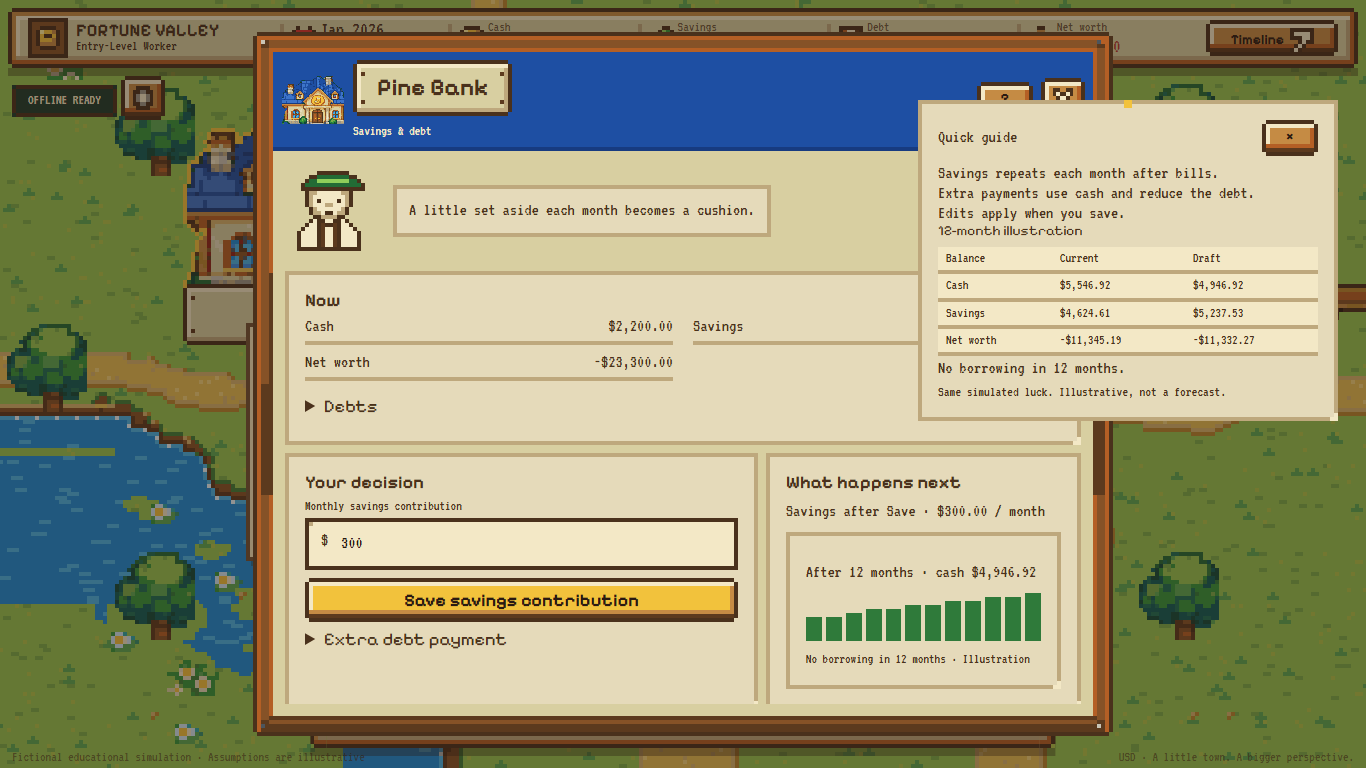
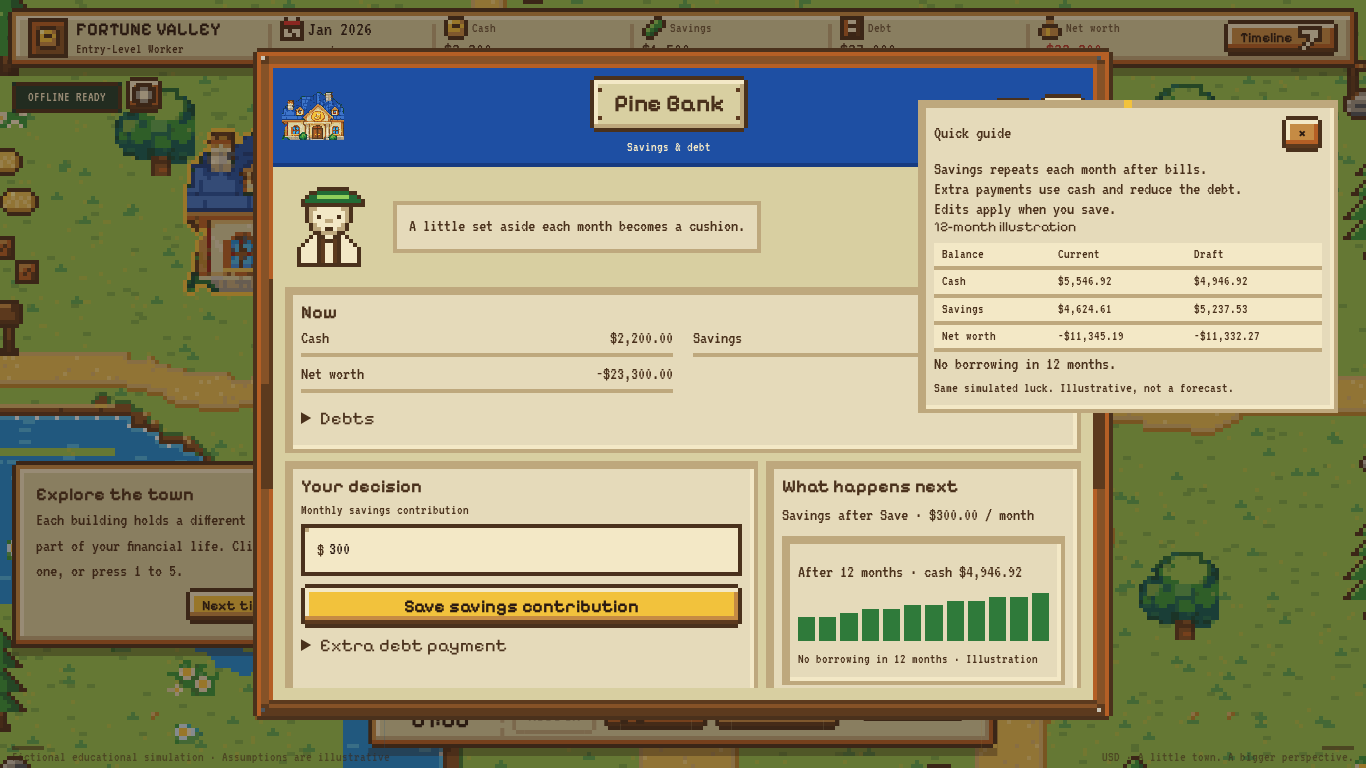
[windows-polish] Polish window headers, max-height, kit controls, notices and button states

diff --git a/src/components/panels/windows.css b/src/components/panels/windows.css
@@ -25,15 +25,15 @@
 .ft-sheet__popover { position: fixed; z-index: 2; top: calc(25 * var(--px)); right: calc(7 * var(--px)); width: min(calc(105 * var(--px)), calc(100vw - 28 * var(--px))); max-height: calc(100dvh - 50 * var(--px)); overflow: auto; color: var(--c-outline); font: var(--fs-body)/1.2 var(--font-body); }
 .ft-sheet__popover::before { content: ''; display: block; width: calc(2 * var(--px)); height: calc(2 * var(--px)); background: var(--c-gold); margin: 0 auto calc(-2 * var(--px)); position: relative; z-index: 1; }
 .ft-sheet__help-heading { margin-bottom: calc(2 * var(--px)); }
-.ft-window-hint { grid-area: hint; margin: 0; color: var(--c-paper); font: var(--fs-label)/1.1 var(--font-body); }
-/* The world also calls its floating signs fv-plaque; keep kit header plaques in flow. */
-.fv-window__header > h2 > .fv-plaque { position: static; inset: auto; display: inline-block; text-align: left; pointer-events: auto; }
+.ft-window-hint { grid-area: hint; margin: 0; color: var(--c-paper); font: var(--fs-label)/1.1 var(--font-body); text-align: center; justify-self: center; }
+/* The world also calls its floating signs fv-plaque; keep kit header plaques in flow and centred. */
+.fv-window__header > h2 > .fv-plaque { position: static; inset: auto; display: inline-block; text-align: center; pointer-events: auto; }
 .fv-window:has(.ft-building-portrait) { --building-roof: var(--c-roof-red); --building-roof-dark: var(--c-roof-red-dark); max-width: calc(100vw - 10 * var(--px)); }
 .fv-window:has([data-building='bank']) { --building-roof: var(--c-roof-blue); --building-roof-dark: var(--c-roof-blue-dark); }
 .fv-window:has([data-building='office']) { --building-roof: var(--c-roof-teal); --building-roof-dark: var(--c-roof-teal-dark); }
 .fv-window:has([data-building='market']) { --building-roof: var(--c-roof-green); --building-roof-dark: var(--c-roof-green-dark); }
-.fv-window:has(.ft-building-portrait) > .fv-window__header { display: grid; grid-template-columns: auto minmax(0, 1fr) auto auto; grid-template-areas: 'portrait title help close' 'portrait hint help close'; background: var(--building-roof); border-bottom: var(--px) solid var(--building-roof-dark); padding: calc(2 * var(--px)); }
-.fv-window:has(.ft-building-portrait) > .fv-window__header > h2 { grid-area: title; }
+.fv-window:has(.ft-building-portrait) > .fv-window__header { display: grid; grid-template-columns: auto minmax(0, 1fr) auto auto; grid-template-areas: 'portrait title help close' 'portrait hint help close'; align-items: center; background: var(--building-roof); border-bottom: var(--px) solid var(--building-roof-dark); padding: calc(2 * var(--px)); }
+.fv-window:has(.ft-building-portrait) > .fv-window__header > h2 { grid-area: title; text-align: center; justify-self: center; }
 .fv-window:has(.ft-building-portrait) > .fv-window__header > .fv-icon-button { grid-area: close; }
 .ft-building-portrait { grid-area: portrait; display: flex; align-items: center; justify-content: center; }
 .ft-building-portrait .fv-sprite { flex-shrink: 0; }
@@ -51,13 +51,11 @@
 @keyframes ft-keeper-blink { 0%, 94%, 100% { background-position: 0 0; } 95%, 99% { background-position: calc(-24 * var(--px)) 0; } }
 [data-reduce-motion='true'] .ft-keeper__portrait, .ft-keeper[data-reduce-motion] .ft-keeper__portrait { animation: none; }
 @media (prefers-reduced-motion: reduce) { .ft-keeper__portrait { animation: none; } }
-.ft-money-field { position: relative; }
-.ft-money-field > span { position: absolute; left: calc(4 * var(--px)); top: calc(8 * var(--px)); z-index: 1; }
-.ft-money-field input { padding-left: calc(6 * var(--px)); }
-.ft-allocation { display: grid; grid-template-columns: repeat(3, minmax(0, 1fr)); gap: calc(2 * var(--px)); }
-.ft-allocation > div { min-width: 0; }
-.ft-allocation small { display: block; overflow-wrap: anywhere; }
-.ft-asset-chip { display: inline-block; width: calc(3 * var(--px)); height: calc(2 * var(--px)); }
+.ft-money-field { min-width: 0; }
+.ft-allocation { display: grid; grid-template-columns: repeat(3, minmax(0, 1fr)); gap: calc(2 * var(--px)); align-items: start; }
+.ft-allocation > div { min-width: 0; display: flex; flex-direction: column; gap: var(--px); }
+.ft-allocation small { display: block; overflow-wrap: anywhere; line-height: 1.15; }
+.ft-asset-chip { display: inline-block; width: calc(3 * var(--px)); height: calc(2 * var(--px)); vertical-align: middle; }
 .ft-asset-chip--stock { background: var(--c-roof-red); }
 .ft-asset-chip--bond { background: var(--c-roof-blue); }
 .ft-asset-chip--etf { background: var(--c-roof-green); }
@@ -65,7 +63,7 @@
 .ft-allocation-bar > span { flex-shrink: 0; }
 .ft-plan-cards { display: grid; grid-template-columns: repeat(2, minmax(0, 1fr)); gap: calc(2 * var(--px)); }
 .ft-plan-card { display: flex; flex-direction: column; position: relative; gap: var(--px); padding: calc(2 * var(--px)); border: var(--px) solid var(--c-parchment-shadow); background: var(--c-paper); cursor: pointer; }
-.ft-plan-card[data-selected='true'] { border-color: var(--c-gold); }
+.ft-plan-card[data-selected='true'] { border-color: var(--c-gold); box-shadow: inset 0 0 0 var(--px) var(--c-gold); }
 .ft-plan-card:has(:focus-visible) { outline: calc(2 * var(--px)) solid var(--c-gold); }
 .ft-plan-card input { position: absolute; width: 1px; height: 1px; opacity: 0; }
 .ft-plan-card dl > div { display: block; }
@@ -83,19 +81,20 @@
 .ft-cash-bars { display: flex; align-items: end; gap: var(--px); height: calc(12 * var(--px)); margin: calc(2 * var(--px)) 0; }
 .ft-cash-bars > span { flex: 1; background: var(--c-money-up); min-width: var(--px); }
 .ft-cash-bars > span[data-negative='true'] { background: var(--c-money-down); }
-.ft-notice { position: relative; margin-bottom: calc(3 * var(--px)); }
-.ft-notice h2 { font: 700 var(--fs-heading)/1.1 var(--font-heading); margin: calc(2 * var(--px)) 0; }
-.ft-notice p { margin: calc(2 * var(--px)) 0; }
-.ft-notice__pin { position: absolute; top: calc(-2 * var(--px)); right: calc(4 * var(--px)); width: calc(2 * var(--px)); height: calc(3 * var(--px)); background: var(--c-gold); border-bottom: var(--px) solid var(--c-wood-dark); }
+.ft-notice, .ft-notice.event-card { position: relative; margin: 0 0 calc(3 * var(--px)); padding: calc(3 * var(--px)); background: var(--c-parchment); color: var(--c-outline); font: var(--fs-body)/1.15 var(--font-body); box-shadow: inset 0 calc(2 * var(--px)) 0 var(--c-wood), 0 calc(2 * var(--px)) 0 color-mix(in srgb, var(--c-ink) 35%, transparent); }
+.ft-notice h2, .ft-notice.event-card h2 { font: 700 var(--fs-heading)/1.1 var(--font-heading); margin: calc(2 * var(--px)) 0; color: var(--c-ink); }
+.ft-notice p, .ft-notice.event-card p { margin: calc(2 * var(--px)) 0; font-size: var(--fs-body); color: var(--c-outline); }
+.ft-notice__pin { position: absolute; top: calc(-1 * var(--px)); left: 50%; transform: translateX(-50%); width: calc(3 * var(--px)); height: calc(3 * var(--px)); background: var(--c-gold); border: var(--px) solid var(--c-outline); border-bottom-color: var(--c-wood-dark); }
 .ft-notice__learning { display: flex; align-items: start; gap: calc(2 * var(--px)); }
 .ft-notice .event-actions { display: flex; flex-wrap: wrap; gap: calc(3 * var(--px)); margin: calc(3 * var(--px)) 0; }
-.ft-notice .event-actions > div { flex: 1; min-width: calc(32 * var(--px)); }
-.ft-notice .event-actions small { display: block; margin-top: var(--px); }
-.ft-receipt { padding: calc(2 * var(--px)); background: var(--c-paper); border-bottom: var(--px) dashed var(--c-outline); }
+.ft-notice .event-actions > div { flex: 1; min-width: calc(36 * var(--px)); display: flex; flex-direction: column; align-items: flex-start; gap: var(--px); }
+.ft-notice .event-actions small, .ft-notice.event-card small { display: block; margin-top: var(--px); font-size: var(--fs-label); line-height: 1.15; color: var(--c-outline); }
+.ft-receipt { padding: calc(2 * var(--px)); background: var(--c-paper); border: var(--px) solid var(--c-parchment-shadow); border-bottom: var(--px) dashed var(--c-outline); }
 .ft-stress { padding: calc(4 * var(--px)); }
 .ft-stress > section { margin-bottom: calc(8 * var(--px)); }
 .ft-stress .ft-sheet { max-width: calc(205 * var(--px)); margin-bottom: calc(4 * var(--px)); }
 .ft-sheet :focus-visible, .ft-notice :focus-visible { outline: calc(2 * var(--px)) solid var(--c-gold); outline-offset: var(--px); }
+.ft-sheet .fv-field-control:focus-visible, .ft-sheet .fv-slider:focus-visible { outline-offset: 0; }
 @media (max-width: 719px) {
   .ft-sheet__body { grid-template-columns: minmax(0, 1fr); }
   .ft-sheet__status dl { grid-template-columns: minmax(0, 1fr); }

diff --git a/src/components/panels/panels.browser.ts b/src/components/panels/panels.browser.ts
@@ -1,5 +1,6 @@
 import { test, expect } from '@playwright/test';
 import { fileURLToPath } from 'node:url';
+import { openTitle, startStory } from '../../../tests/helpers';
 
 test('canonical stress route renders every panel and applies only saved engine actions', async ({ page }, info) => {
   const errors: string[] = [];
@@ -42,8 +43,8 @@ test('canonical stress route renders every panel and applies only saved engine a
 });
 
 test('financial sheet is centered, compact, and keeps help separate from the modal', async ({ page }, info) => {
-  await page.goto('/');
-  await page.getByRole('button', { name: /Entry-Level Worker/ }).click();
+  await openTitle(page);
+  await startStory(page, 'Entry-Level Worker');
   await page.getByRole('button', { name: /Open Pine Bank:/ }).focus();
   await page.keyboard.press('Enter');
   const dialog = page.getByRole('dialog', { name: 'Pine Bank', exact: true });
@@ -54,6 +55,11 @@ test('financial sheet is centered, compact, and keeps help separate from the mod
   expect(Math.abs(box!.y + box!.height / 2 - viewport.height / 2)).toBeLessThan(2);
   expect(box!.width).toBeLessThanOrEqual(viewport.width - 20);
   if (info.project.name === 'desktop') expect(box!.width).toBeGreaterThan(700);
+  const headingBox = await dialog.getByRole('heading', { name: 'Pine Bank', exact: true }).boundingBox();
+  const bodyBox = await dialog.locator('.fv-window__body').boundingBox();
+  expect(headingBox).not.toBeNull();
+  expect(bodyBox).not.toBeNull();
+  expect(headingBox!.y).toBeLessThan(bodyBox!.y);
   await expect(dialog.getByText('Extra payments use cash and reduce the debt.', { exact: true })).toHaveCount(0);
   await dialog.getByLabel('Monthly savings contribution (USD)').fill('300');
   await expect(dialog.getByLabel('12-month policy preview')).toContainText('After 12 months');
@@ -69,22 +75,34 @@ test('financial sheet is centered, compact, and keeps help separate from the mod
   await expect(dialog).toHaveCount(0);
 });
 
-for (const viewport of [{ width: 1366, height: 768 }, { width: 1440, height: 900 }]) {
+const buildingWindows = [
+  ['bank', 'Pine Bank'],
+  ['office', 'Town Office'],
+  ['hospital', 'Health House'],
+  ['home', 'Your Home'],
+  ['market', 'Market Hall'],
+] as const;
+
+for (const viewport of [{ width: 1280, height: 720 }, { width: 1366, height: 768 }, { width: 1440, height: 900 }]) {
   test(`all building windows fit and keep keyboard focus at ${viewport.width}x${viewport.height}`, async ({ page }, info) => {
     test.skip(info.project.name !== 'desktop', 'Laptop layout checks; mobile Bank is covered separately.');
     await page.setViewportSize(viewport);
-    await page.goto('/');
-    await page.getByRole('button', { name: /Entry-Level Worker/ }).click();
-    for (const name of ['Pine Bank', 'Town Office', 'Health House', 'Your Home', 'Market Hall']) {
+    await openTitle(page);
+    await startStory(page, 'Entry-Level Worker');
+    for (const [id, name] of buildingWindows) {
       const opener = page.getByRole('button', { name: new RegExp(`Open ${name}:`) });
       await opener.focus(); await page.keyboard.press('Enter');
       const dialog = page.getByRole('dialog', { name, exact: true });
       await expect(dialog).toBeVisible();
-      await expect(dialog.getByRole('heading', { name, exact: true })).toBeVisible();
+      const heading = dialog.getByRole('heading', { name, exact: true });
+      await expect(heading).toBeVisible();
       const box = await dialog.boundingBox();
+      const headingBox = await heading.boundingBox();
+      const bodyBox = await dialog.locator('.fv-window__body').boundingBox();
       expect(box!.x).toBeGreaterThanOrEqual(0); expect(box!.y).toBeGreaterThanOrEqual(0);
       expect(box!.x + box!.width).toBeLessThanOrEqual(viewport.width);
       expect(box!.y + box!.height).toBeLessThanOrEqual(viewport.height);
+      expect(headingBox!.y).toBeLessThan(bodyBox!.y);
       await expect(dialog.getByRole('heading', { name: 'Now', exact: true })).toBeVisible();
       await expect(dialog.getByRole('heading', { name: 'Your decision', exact: true })).toBeVisible();
       await expect(dialog.getByRole('heading', { name: 'What happens next', exact: true })).toBeVisible();
@@ -93,6 +111,9 @@ for (const viewport of [{ width: 1366, height: 768 }, { width: 1440, height: 900
       await page.keyboard.press('Tab');
       expect(await page.evaluate(() => !!document.activeElement?.closest('dialog'))).toBe(true);
       await dialog.screenshot({ path: fileURLToPath(new URL(`screenshots/window-${viewport.width}-${name.toLowerCase().replaceAll(' ', '-')}.png`, import.meta.url)) });
+      if (viewport.width === 1440) {
+        await dialog.screenshot({ path: fileURLToPath(new URL(`screenshots/window-${id}.png`, import.meta.url)) });
+      }
       await page.keyboard.press('Escape');
       await expect(dialog).toHaveCount(0); await expect(opener).toBeFocused();
     }

diff --git a/src/ui/Fields.css b/src/ui/Fields.css
@@ -1,18 +1,19 @@
-.fv-field { display: flex; flex-direction: column; gap: var(--px); font: var(--fs-body)/1.1 var(--font-body); min-width: 0; color: var(--c-outline); }
-.fv-field > label { font-size: var(--fs-label); }
-.fv-field-control { box-sizing: border-box; min-width: 0; width: 100%; border: calc(3 * var(--px)) solid transparent; border-image: url('/art/ui/frames/field.png') 3 fill / calc(3 * var(--px)) / 0 stretch; padding: var(--px) calc(2 * var(--px)); background: transparent; color: var(--c-ink); font: var(--fs-body)/1.1 var(--font-body); border-radius: 0; image-rendering: pixelated; }
+.fv-field { display: flex; flex-direction: column; gap: calc(1.5 * var(--px)); font: var(--fs-body)/1.1 var(--font-body); min-width: 0; color: var(--c-outline); }
+.fv-field > label { display: flex; justify-content: space-between; align-items: baseline; gap: calc(2 * var(--px)); font-size: var(--fs-label); line-height: 1.1; }
+.fv-field-control { box-sizing: border-box; min-width: 0; width: 100%; min-height: calc(11 * var(--px)); border: calc(3 * var(--px)) solid transparent; border-image: url('/art/ui/frames/field.png') 3 fill / calc(3 * var(--px)) / 0 stretch; padding: var(--px) calc(2 * var(--px)); background: transparent; color: var(--c-ink); font: var(--fs-body)/1.1 var(--font-body); border-radius: 0; image-rendering: pixelated; }
 .fv-field-control:focus { border-image-source: url('/art/ui/frames/field-focus.png'); }
 textarea.fv-field-control { min-height: calc(24 * var(--px)); resize: vertical; }
-.fv-field__hint { font-size: var(--fs-label); } .fv-field__error { color: var(--c-money-down); }
+.fv-field__hint { font-size: var(--fs-label); } .fv-field__error { color: var(--c-money-down); font-size: var(--fs-label); }
 .fv-field-control[aria-invalid='true'] { outline: var(--px) solid var(--c-money-down); }
-.fv-field__wrap { position: relative; display: block; } .fv-field__wrap input { padding-left: calc(6 * var(--px)); }
-.fv-field__prefix { position: absolute; left: calc(3 * var(--px)); top: 50%; transform: translateY(-50%); z-index: 1; font: var(--fs-body)/1 var(--font-body); color: var(--c-outline); pointer-events: none; }
-.fv-select-wrap { position: relative; } .fv-select-wrap select { appearance: none; padding-right: calc(9 * var(--px)); }
-.fv-select-wrap > .fv-icon { position: absolute; right: calc(3 * var(--px)); top: calc(3 * var(--px)); width: calc(6 * var(--px)); height: calc(6 * var(--px)); transform: rotate(90deg); pointer-events: none; }
-.fv-slider { appearance: none; width: 100%; height: calc(4 * var(--px)); border: calc(2 * var(--px)) solid transparent; border-image: url('/art/ui/controls/slider-track.png') 2 fill / calc(2 * var(--px)) / 0 stretch; margin: calc(3 * var(--px)) 0; background: transparent; cursor: pointer; }
+.fv-field__wrap { position: relative; display: block; } .fv-field__wrap input { padding-left: calc(4 * var(--px)); }
+.fv-field__prefix { position: absolute; left: calc(4 * var(--px)); top: 50%; transform: translateY(-50%); z-index: 1; font: var(--fs-body)/1 var(--font-body); color: var(--c-outline); pointer-events: none; }
+.fv-select-wrap { position: relative; display: block; } .fv-select-wrap select { appearance: none; padding-right: calc(9 * var(--px)); }
+.fv-select-wrap > .fv-icon { position: absolute; right: calc(3 * var(--px)); top: 50%; width: calc(6 * var(--px)); height: calc(6 * var(--px)); transform: translateY(-50%) rotate(90deg); pointer-events: none; }
+.fv-slider { appearance: none; width: 100%; height: calc(4 * var(--px)); border: calc(2 * var(--px)) solid transparent; border-image: url('/art/ui/controls/slider-track.png') 2 fill / calc(2 * var(--px)) / 0 stretch; margin: calc(2 * var(--px)) 0; background: transparent; cursor: pointer; }
+.fv-slider:disabled { cursor: default; opacity: 0.65; }
 .fv-slider::-webkit-slider-thumb { appearance: none; width: calc(5 * var(--px)); height: calc(7 * var(--px)); border: 0; background: url('/art/ui/controls/slider-thumb.png') center / 100% 100%; image-rendering: pixelated; }
 .fv-slider::-moz-range-thumb { width: calc(5 * var(--px)); height: calc(7 * var(--px)); border: 0; border-radius: 0; background: url('/art/ui/controls/slider-thumb.png') center / 100% 100%; image-rendering: pixelated; }
-.fv-field output { float: right; font-variant-numeric: tabular-nums; }
+.fv-field output { font-variant-numeric: tabular-nums; color: var(--c-ink); }
 .fv-toggle { display: inline-flex; gap: calc(2 * var(--px)); align-items: center; background: none; border: 0; color: var(--c-outline); font: var(--fs-body)/1 var(--font-body); cursor: pointer; padding: var(--px); }
 .fv-toggle__sprite { width: calc(14 * var(--px)); height: calc(7 * var(--px)); background: url('/art/ui/controls/toggle.png') left / calc(28 * var(--px)) calc(7 * var(--px)); image-rendering: pixelated; }
 .fv-toggle[aria-checked='true'] .fv-toggle__sprite { background-position: right; }

diff --git a/src/ui/Button.css b/src/ui/Button.css
@@ -12,12 +12,13 @@
 .fv-button:hover:not(:disabled) { border-image-source: url('/art/ui/frames/button-hover.png'); }
 .fv-button--ghost:hover:not(:disabled) { border-image-source: url('/art/ui/frames/ghost.png'); color: var(--c-ink); }
 .fv-button--text:hover:not(:disabled) { border-image: none; color: var(--c-wood); }
-.fv-button:active:not(:disabled), .fv-button[aria-pressed='true']:not(.fv-button--ghost, .fv-button--text) { border-image-source: url('/art/ui/frames/button-pressed.png'); }
-.fv-button--ghost:active:not(:disabled), .fv-button--text:active:not(:disabled) { border-image-source: none; }
-.fv-button--ghost:active:not(:disabled) { border-image: url('/art/ui/frames/ghost.png') 3 fill / calc(3 * var(--px)) / 0 stretch; }
-.fv-button:active:not(:disabled) .fv-button__content > * { transform: translateY(var(--px)); }
-.fv-button:disabled { border-image-source: url('/art/ui/frames/button-disabled.png'); color: var(--c-wood-dark); cursor: default; }
-.fv-button--ghost:disabled, .fv-button--text:disabled { border-image: none; color: var(--c-parchment-shadow); }
+.fv-button:active:not(:disabled), .fv-button[aria-pressed='true']:not(:disabled):not(.fv-button--ghost, .fv-button--text) { border-image-source: url('/art/ui/frames/button-pressed.png'); }
+.fv-button:active:not(:disabled), .fv-button[aria-pressed='true']:not(:disabled) { transform: translateY(var(--px)); }
+.fv-button--ghost:active:not(:disabled), .fv-button--ghost[aria-pressed='true']:not(:disabled) { border-image: url('/art/ui/frames/ghost.png') 3 fill / calc(3 * var(--px)) / 0 stretch; color: var(--c-ink); box-shadow: inset 0 var(--px) 0 var(--c-parchment-shadow); }
+.fv-button--text:active:not(:disabled), .fv-button--text[aria-pressed='true']:not(:disabled) { border-image: none; color: var(--c-ink); text-decoration-thickness: calc(2 * var(--px)); }
+.fv-button:disabled { opacity: 1; border-image-source: url('/art/ui/frames/button-disabled.png'); color: var(--c-wood-dark); cursor: default; }
+.fv-button--ghost:disabled, .fv-button--text:disabled { opacity: 1; border-image: none; color: var(--c-parchment-shadow); }
 .fv-button--ghost:disabled { border-image: url('/art/ui/frames/ghost.png') 3 fill / calc(3 * var(--px)) / 0 stretch; }
-.fv-button:focus-visible, .fv-field-control:focus-visible, .fv-tab:focus-visible, .fv-toggle:focus-visible, .fv-slider:focus-visible { outline: calc(2 * var(--px)) solid var(--c-gold); outline-offset: var(--px); }
+.fv-button:focus-visible, .fv-tab:focus-visible, .fv-toggle:focus-visible { outline: calc(2 * var(--px)) solid var(--c-gold); outline-offset: var(--px); }
+.fv-field-control:focus-visible, .fv-slider:focus-visible { outline: calc(2 * var(--px)) solid var(--c-gold); outline-offset: 0; }
 .fv-icon-button { width: calc(var(--button-height) * var(--px)); padding: 0; flex: none; white-space: nowrap; }

diff --git a/src/ui/Fields.tsx b/src/ui/Fields.tsx
@@ -22,10 +22,14 @@ export function Select({ label, options, onChange, id: passedId, ...rest }: Sele
   const generated = useId(), id = passedId ?? generated
   return <div className="fv-field"><label htmlFor={id}>{label}</label><div className="fv-select-wrap"><select {...rest} id={id} className="fv-field-control" onChange={event => onChange(event.target.value)}>{options.map(option => <option key={option.value} value={option.value}>{option.label}</option>)}</select><Icon name="arrow-right" compact/></div></div>
 }
-export interface SliderProps { label: string; value: number; onChange: (value: number) => void; min: number; max: number; step: number; format?: (value: number) => string }
-export function Slider({ label, value, onChange, min, max, step, format = String }: SliderProps) {
-  const id = useId()
-  return <div className="fv-field"><label htmlFor={id}>{label} <output htmlFor={id}>{format(value)}</output></label><input className="fv-slider" id={id} type="range" min={min} max={max} step={step} value={value} aria-valuetext={format(value)} onChange={event => onChange(event.currentTarget.valueAsNumber)}/></div>
+export interface SliderProps extends Omit<InputHTMLAttributes<HTMLInputElement>, 'value' | 'onChange' | 'min' | 'max' | 'step' | 'type'> {
+  label: string; value: number; onChange: (value: number) => void; min: number; max: number; step: number; format?: (value: number) => string; error?: string
+}
+export function Slider({ label, value, onChange, min, max, step, format = String, error, id: passedId, className = '', ...rest }: SliderProps) {
+  const generated = useId(), id = passedId ?? generated
+  const describedBy = [rest['aria-describedby'], error && `${id}-error`].filter(Boolean).join(' ') || undefined
+  const formatted = format(value)
+  return <div className="fv-field"><label htmlFor={id}><span>{label}</span><output htmlFor={id}>{formatted}</output></label><input {...rest} className={`fv-slider ${className}`.trim()} id={id} type="range" min={min} max={max} step={step} value={value} aria-invalid={rest['aria-invalid'] ?? (error ? true : undefined)} aria-describedby={describedBy} aria-valuetext={formatted} onChange={event => onChange(event.currentTarget.valueAsNumber)}/>{error && <span id={`${id}-error`} className="fv-field__error" role="alert">{error}</span>}</div>
 }
 export interface ToggleProps { label: string; checked: boolean; onChange: (checked: boolean) => void }
 export function Toggle({ label, checked, onChange }: ToggleProps) { return <button className="fv-toggle" type="button" role="switch" aria-checked={checked} onClick={() => onChange(!checked)}><span className="fv-toggle__sprite" aria-hidden="true"/>{label}</button> }

diff --git a/src/components/panels/canonical/HomePanel.tsx b/src/components/panels/canonical/HomePanel.tsx
@@ -1,4 +1,4 @@
-import { Button } from '../../../ui';
+import { Button, Slider } from '../../../ui';
 import { useId } from 'react';
 import { BOUNDS } from '../../../config/defaults';
 import { PanelShell } from '../PanelShell';
@@ -15,10 +15,7 @@ export function HomePanel({ state, dispatch }: PanelProps) {
     <div><dt>Essentials / month</dt><dd>{money(state.household.essentialsMonthly)}</dd></div>
     <div><dt>Budget / month</dt><dd>{money(state.household.discretionaryMonthly)}</dd></div>
   </dl>} decision={<form onSubmit={event => { event.preventDefault(); if (!disabled && !error) void task.send({ type: 'set_budget', discretionaryMonthly: Number(budget) }); }}>
-    <label htmlFor={id}>Monthly spending</label>
-    <input className="fv-slider ft-budget" id={id} aria-label="Monthly discretionary budget (USD)" type="range" min={0} max={BOUNDS.monthlySpendMax} step={.01} value={budget} disabled={disabled} onChange={event => setBudget(event.target.value)} aria-invalid={!!error} aria-describedby={error ? `${id}-help` : undefined} />
-    <output htmlFor={id}>{error ? 'Invalid amount' : `${money(Number(budget))} / month`}</output>
-    {error && <p id={`${id}-help`}>{error}</p>}
+    <Slider className="ft-budget" id={id} label="Monthly spending" aria-label="Monthly discretionary budget (USD)" min={0} max={BOUNDS.monthlySpendMax} step={.01} value={Number.isFinite(Number(budget)) ? Number(budget) : 0} disabled={disabled} format={() => error ? 'Invalid amount' : `${money(Number(budget))} / month`} onChange={value => setBudget(String(value))} error={error} />
     <Button type="submit" variant="primary" disabled={disabled || !!error}>Save budget</Button>{task.feedback}
   </form>} consequence={<><p>After Save · {error ? 'Check amount' : `${money(-Number(budget))} / month`}</p><PolicyPreview state={state} overrides={{ household: { discretionaryMonthly: Number(budget) } }} invalid={!!error} compact /></>} help={<>
     <p>This changes flexible spending. Housing and essentials stay the same.</p>

diff --git a/src/ui/Window.css b/src/ui/Window.css
@@ -1,9 +1,10 @@
 .fv-window { width: calc(180 * var(--px)); max-width: calc(100vw - 8 * var(--px)); max-height: calc(100dvh - 16 * var(--px)); display: flex; flex-direction: column; color: var(--c-outline); }
-.fv-window--sm { width: calc(120 * var(--px)); } .fv-window--lg { width: calc(215 * var(--px)); }
-.fv-window__header { display: flex; gap: calc(2 * var(--px)); align-items: center; padding: 0 0 calc(2 * var(--px)); }
-.fv-window__header h2 { flex: 1; margin: 0; min-width: 0; }
-.fv-window__body { display: flex; min-height: 0; background: var(--c-parchment); padding: calc(3 * var(--px)); }
-.fv-window__body > .fv-scroll-area { flex: 1; }
+.fv-window--sm { width: calc(120 * var(--px)); } .fv-window--lg { width: calc(215 * var(--px)); max-height: calc(100dvh - 24 * var(--px)); }
+.fv-window__header { flex-shrink: 0; display: flex; gap: calc(2 * var(--px)); align-items: center; padding: calc(1 * var(--px)) calc(2 * var(--px)) calc(2 * var(--px)); }
+.fv-window__header h2 { flex: 1; margin: 0; min-width: 0; text-align: center; }
+.fv-window__header .fv-plaque { position: static; inset: auto; display: inline-block; pointer-events: auto; }
+.fv-window__body { display: flex; flex: 1; min-height: 0; overflow: hidden; background: var(--c-parchment); padding: calc(3 * var(--px)); }
+.fv-window__body > .fv-scroll-area { flex: 1; min-height: 0; }
 .fv-modal { position: fixed; inset: 0; margin: auto; border: 0; padding: 0; background: transparent; max-width: 100vw; max-height: 100dvh; overflow: visible; z-index: var(--z-overlay); font: var(--fs-body)/1.15 var(--font-body); color: var(--c-outline); }
 .fv-modal[open] { animation: fv-window-open 120ms steps(2); }
 .fv-modal::backdrop { background: color-mix(in srgb, var(--c-ink) 45%, transparent); }

diff --git a/src/ui/Surfaces.css b/src/ui/Surfaces.css
@@ -7,7 +7,7 @@
 .fv-plaque--wood { border-image-source: url('/art/ui/frames/button.png'); color: var(--c-paper); }
 .fv-tag { display: inline-flex; align-items: center; gap: var(--px); border: calc(2 * var(--px)) solid transparent; border-image: url('/art/ui/frames/tag.png') 2 fill / calc(2 * var(--px)) / 0 stretch; color: var(--c-paper); background: var(--c-tag-dark); padding: 0 calc(2 * var(--px)); font-size: var(--fs-label); text-transform: uppercase; }
 .fv-tag--gold { background: var(--c-gold); color: var(--c-ink); border-image-source: url('/art/ui/frames/tag-gold.png'); } .fv-tag--red { background: var(--c-money-down); border-image-source: url('/art/ui/frames/tag-red.png'); } .fv-tag--green { background: var(--c-money-up); border-image-source: url('/art/ui/frames/tag-green.png'); }
-.fv-inset { border: calc(3 * var(--px)) solid transparent; border-image: url('/art/ui/frames/inset.png') 3 fill / calc(3 * var(--px)) / 0 stretch; padding: calc(2 * var(--px)); }
+.fv-inset { background: var(--c-parchment-light); border: var(--px) solid var(--c-parchment-shadow); box-shadow: inset var(--px) var(--px) 0 var(--c-parchment-shadow), inset calc(-1 * var(--px)) calc(-1 * var(--px)) 0 var(--c-paper); padding: calc(3 * var(--px)); }
 .fv-inset h3 { font: 700 var(--fs-body)/1 var(--font-heading); margin: 0 0 calc(2 * var(--px)); }
 .fv-divider { display: block; border-top: var(--px) solid var(--c-parchment-shadow); margin: calc(2 * var(--px)) 0; }
 .fv-divider--vertical { border-top: 0; border-left: var(--px) solid var(--c-parchment-shadow); align-self: stretch; margin: 0 var(--px); }

diff --git a/src/ui/ui.test.tsx b/src/ui/ui.test.tsx
@@ -75,9 +75,10 @@ describe('UI kit components', () => {
   })
   it('emits select values and slider value text', () => {
     const select = vi.fn(), slide = vi.fn()
-    render(<><Select label="Material" value="wood" onChange={select} options={[{value:'wood',label:'Wood'},{value:'paper',label:'Paper'}]}/><Slider label="Contribution" value={200} onChange={slide} min={0} max={1000} step={10} format={value => `$${value}`}/></>)
+    render(<><Select label="Material" value="wood" onChange={select} options={[{value:'wood',label:'Wood'},{value:'paper',label:'Paper'}]}/><Slider label="Contribution" value={200} onChange={slide} min={0} max={1000} step={10} format={value => `$${value}`} error="Too low"/></>)
     fireEvent.change(screen.getByRole('combobox', {name:'Material'}), {target:{value:'paper'}}); expect(select).toHaveBeenCalledWith('paper')
     const slider = screen.getByRole('slider', {name:/Contribution/}); expect(slider.getAttribute('aria-valuetext')).toBe('$200')
+    expect(slider.getAttribute('aria-invalid')).toBe('true'); expect(screen.getByRole('alert').textContent).toBe('Too low')
     fireEvent.change(slider, {target:{value:'300'}}); expect(slide).toHaveBeenCalledWith(300)
   })
   it('describes its child with a tooltip', () => {

diff --git a/src/components/panels/playwright.config.ts b/src/components/panels/playwright.config.ts
@@ -1,18 +1,20 @@
-import { defineConfig } from '@playwright/test';
+import { defineConfig } from '@playwright/test';
 import { fileURLToPath } from 'node:url';
 import sharedConfig from '../../../playwright.config';
 
-const command = 'exec vite -- --config src/components/panels/vite.config.ts --host 127.0.0.1 --port 5174';
+const port = process.env.FV_PANEL_PORT ?? '5194';
+const baseURL = `http://127.0.0.1:${port}`;
+const command = `exec vite -- --config src/components/panels/vite.config.ts --host 127.0.0.1 --port ${port}`;
 export default defineConfig({
   ...sharedConfig,
   testDir: fileURLToPath(new URL('.', import.meta.url)),
   testMatch: 'panels.browser.ts',
   outputDir: fileURLToPath(new URL('test-results/', import.meta.url)),
-  use: { ...sharedConfig.use, baseURL: 'http://127.0.0.1:5174' },
+  use: { ...sharedConfig.use, baseURL },
   webServer: {
     command: process.platform === 'win32' ? `npm.cmd ${command}` : `npm ${command}`,
     cwd: fileURLToPath(new URL('../../../', import.meta.url)),
-    url: 'http://127.0.0.1:5174/dev/stress-states',
+    url: `${baseURL}/dev/stress-states`,
     reuseExistingServer: !process.env.CI
   }
 });

diff --git a/src/components/panels/canonical/shared.tsx b/src/components/panels/canonical/shared.tsx
@@ -52,7 +52,7 @@ export function MoneyInput({ label, raw, onChange, min = 0, max, step = .01, dis
   const id = useId(); const [touched, setTouched] = useState(false);
   useEffect(() => { if (!raw) setTouched(false); }, [raw]);
   const error = amountError(raw, min, max, step);
-  return <div className="ft-money-field"><span aria-hidden="true">$</span><Field label={label} id={id} aria-label={`${label} (USD)`} type="number" inputMode="decimal" value={raw} min={min} max={max} step={step} disabled={disabled} onChange={event => { onChange(event.target.value); setTouched(true); }} onBlur={() => setTouched(true)} error={touched ? error : undefined} /></div>;
+  return <div className="ft-money-field"><Field label={label} prefix="$" id={id} aria-label={`${label} (USD)`} type="number" inputMode="decimal" value={raw} min={min} max={max} step={step} disabled={disabled} onChange={event => { onChange(event.target.value); setTouched(true); }} onBlur={() => setTouched(true)} error={touched ? error : undefined} /></div>;
 }
 
 export function LedgerHistory({ state, categories }: { state: GameState; categories: LedgerCategory[] }) {
